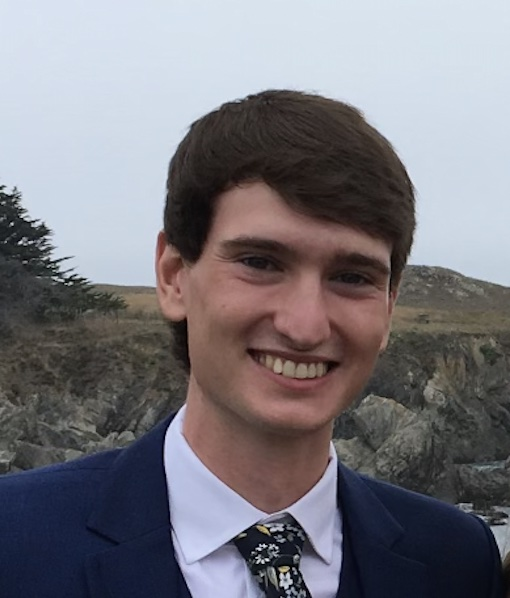
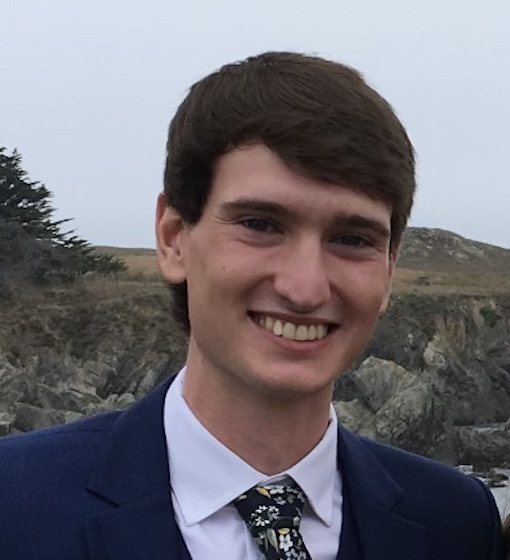
updated some photo sizes to fix warping, moved rob edman to alumni

diff --git a/collections/_staff/edman_rob.md b/collections/_staff/edman_rob.md
@@ -3,7 +3,7 @@ layout: homepage
 first_name: Rob
 last_name: Edman
 title: Project Scientist
-category: staff
+category: alumni
 image: "/assets/staff/edman_robert.jpg"
 summary: "Project Scientist"
 ---
